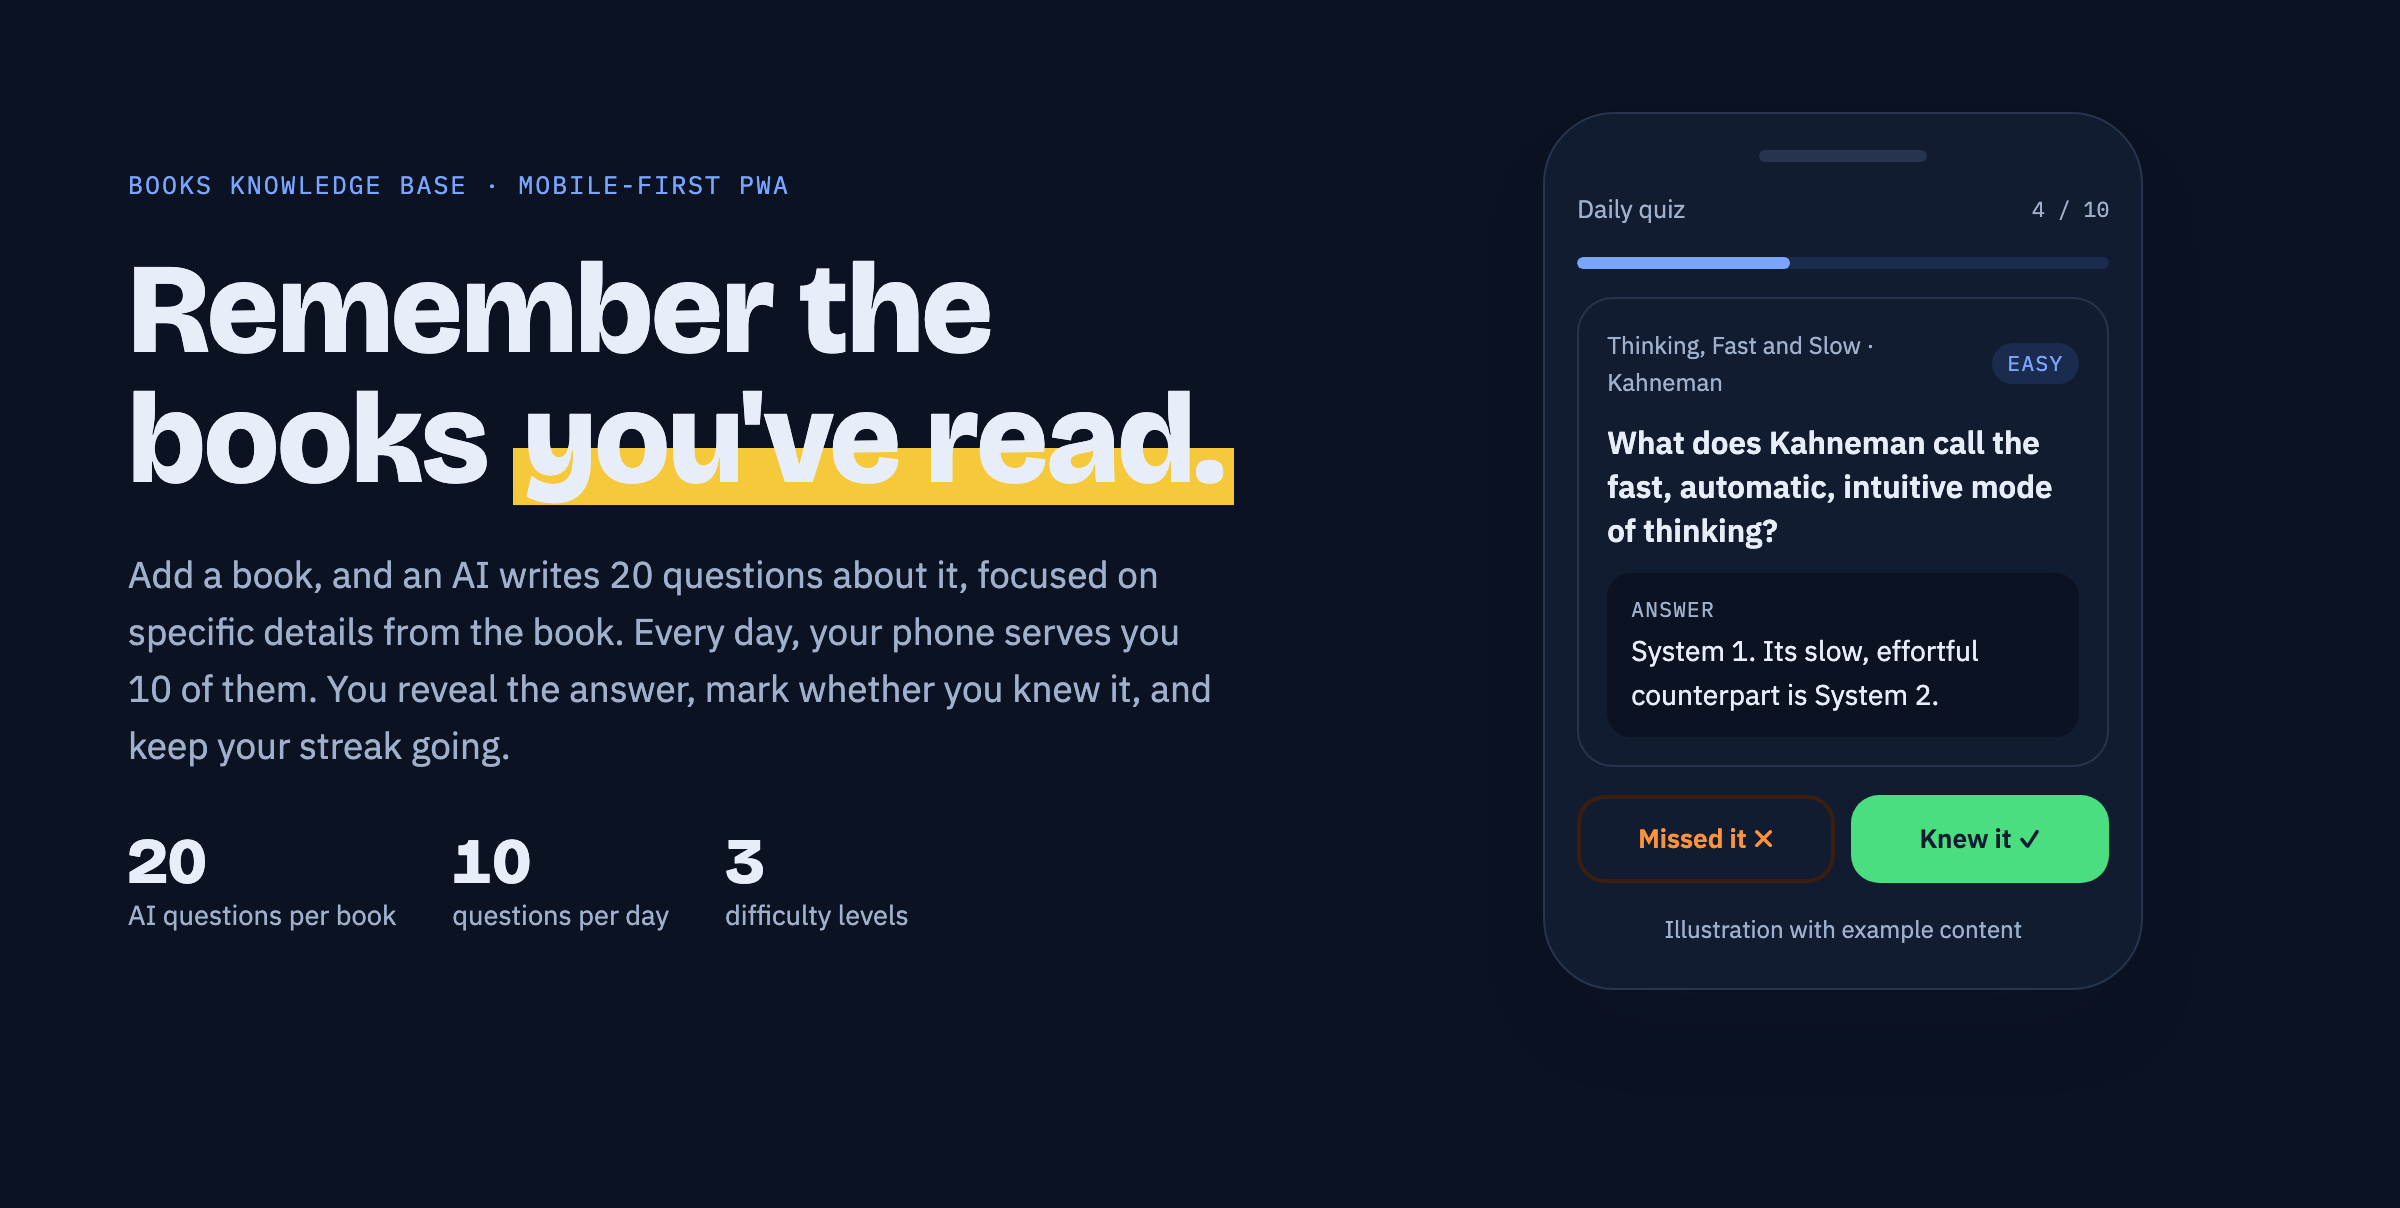
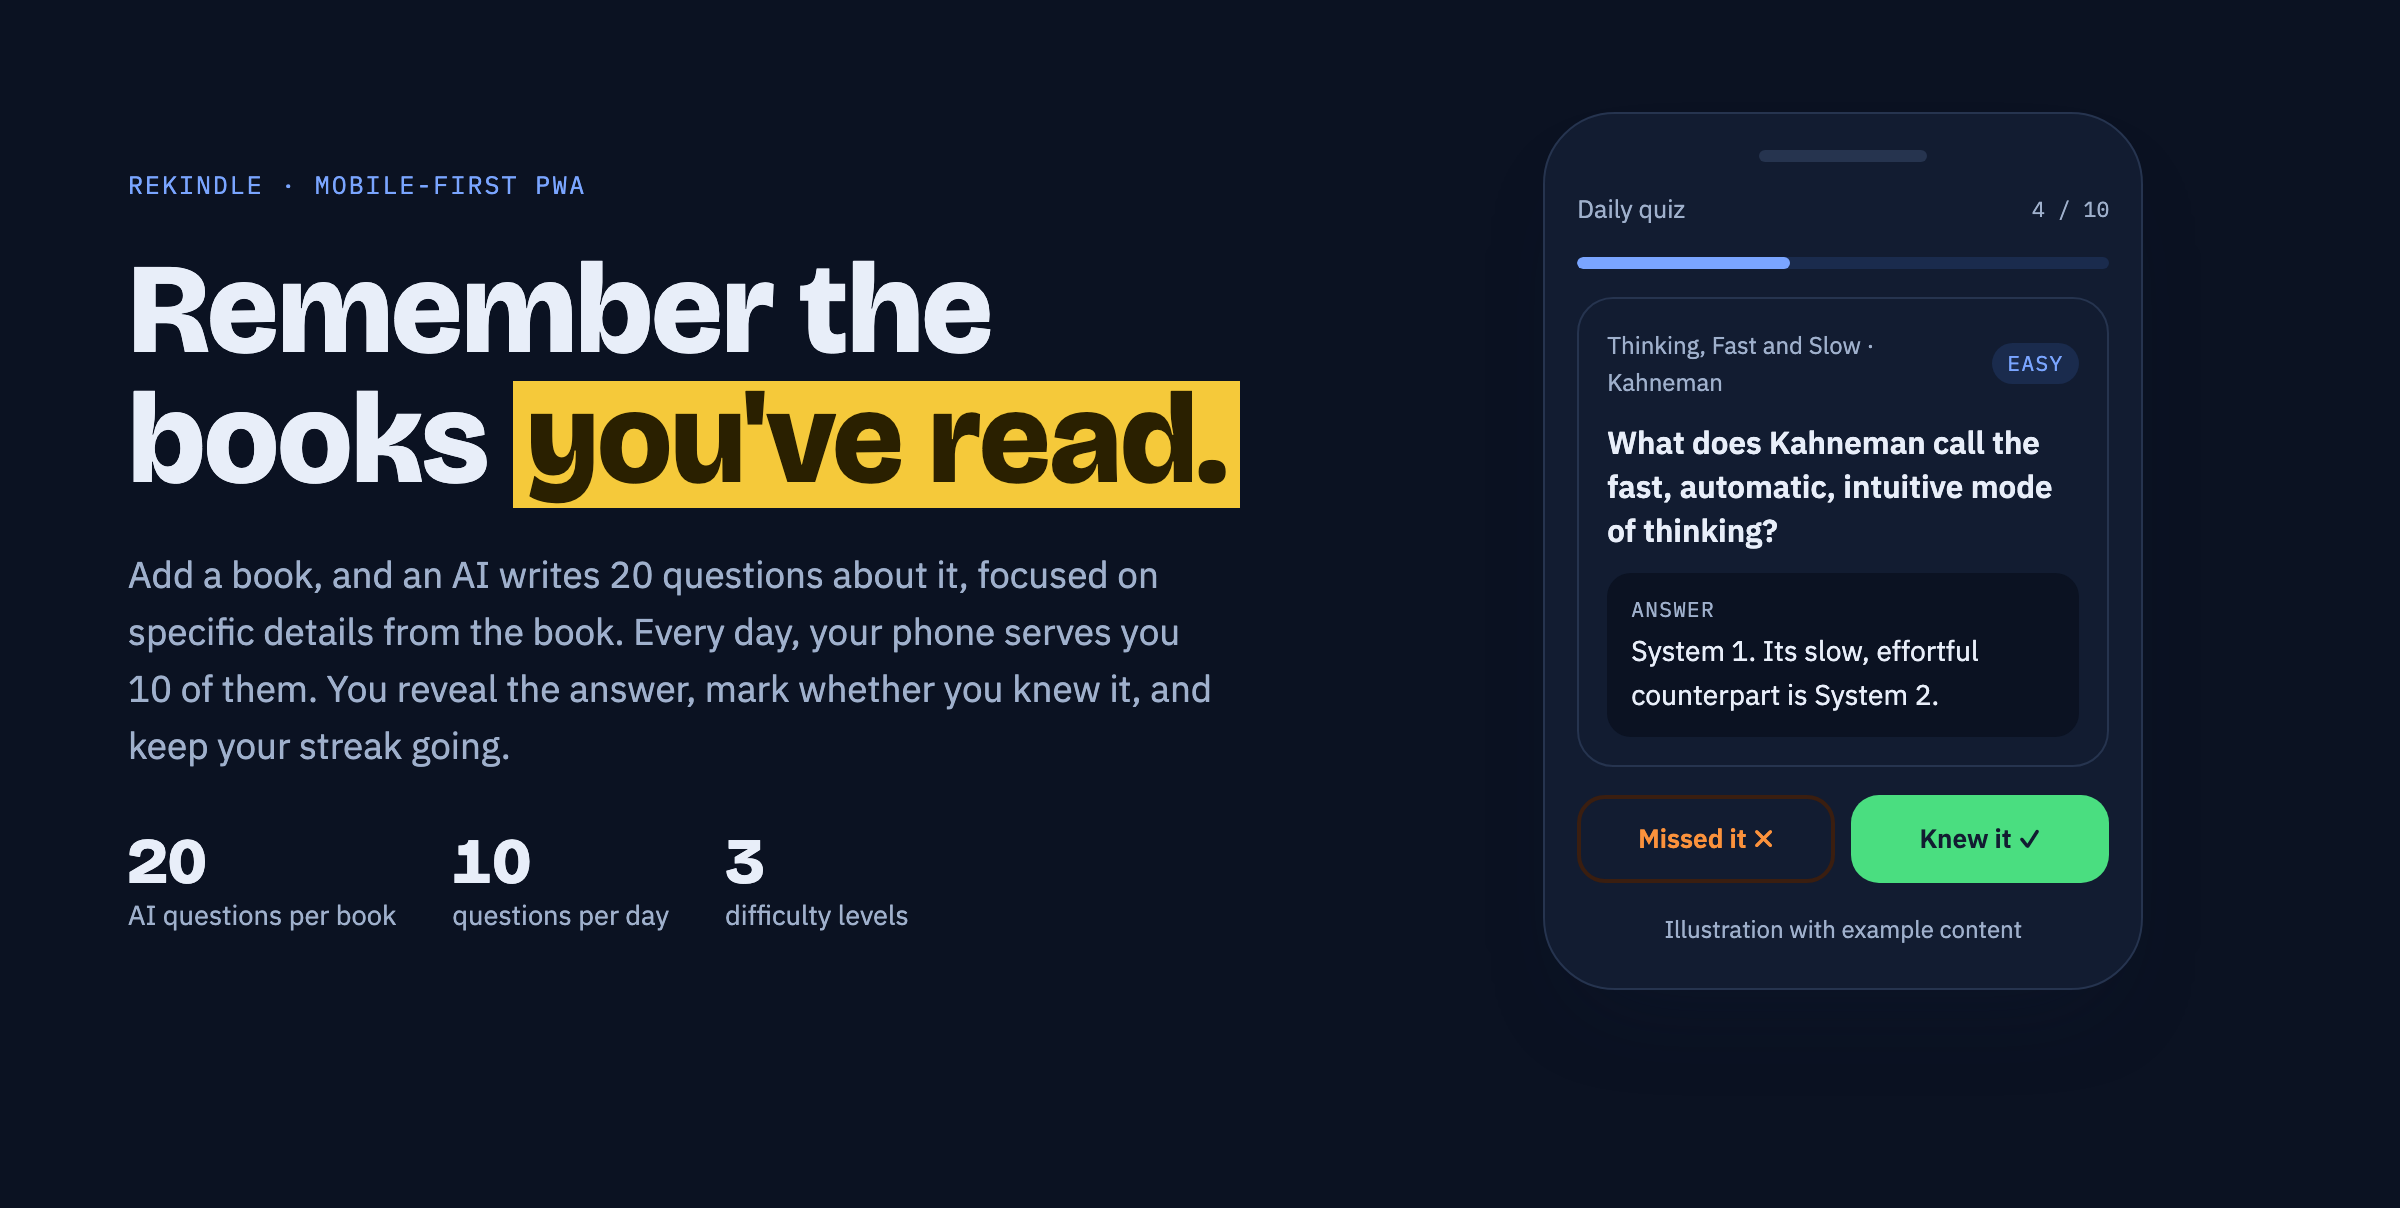
chore: rename project to Rekindle

Changed region(s): [[0.1875, 0.3063, 0.5312, 0.4288], [0.0625, 0.1225, 0.125, 0.1838], [0.1875, 0.1225, 0.25, 0.1838]]

diff --git a/app/layout.tsx b/app/layout.tsx
@@ -15,13 +15,13 @@ const geistMono = localFont({
 });
 
 export const metadata: Metadata = {
-  title: "Books Knowledge Base",
+  title: "Rekindle",
   description: "KI-gestütztes Buch-Wissens-Retention-System",
   manifest: "/manifest.json",
   appleWebApp: {
     capable: true,
     statusBarStyle: "default",
-    title: "Books KB",
+    title: "Rekindle",
   },
 };
 

diff --git a/README.md b/README.md
@@ -1,4 +1,4 @@
-<h1 align="center">Books Knowledge Base</h1>
+<h1 align="center">Rekindle</h1>
 
 <p align="center">
   <strong>Turn the books you read into knowledge you keep.</strong><br>
@@ -17,12 +17,12 @@
 
 <picture>
   <source media="(prefers-color-scheme: dark)" srcset="docs/images/hero-dark.png">
-  <img alt="Books Knowledge Base: add a book, get 20 AI-generated questions, answer 10 of them every day on your phone" src="docs/images/hero-light.png">
+  <img alt="Rekindle: add a book, get 20 AI-generated questions, answer 10 of them every day on your phone" src="docs/images/hero-light.png">
 </picture>
 
 ## Why
 
-You finish a book, and a few months later most of it is gone. Books Knowledge Base fixes that with **active recall**: instead of rereading notes, you answer questions about specific details from each book, a little every day.
+You finish a book, and a few months later most of it is gone. Rekindle fixes that with **active recall**: instead of rereading notes, you answer questions about specific details from each book, a little every day.
 
 The AI is instructed to avoid generic questions that anyone could answer without having read the book. Each question asks about something specific: a character's decision, an argument, an experiment, a name or a scene.
 
@@ -75,8 +75,8 @@ The AI is instructed to avoid generic questions that anyone could answer without
 
 ```bash
 # 1. Clone and install
-git clone https://github.com/jvmyer/Books_knowledge_Base.git
-cd Books_knowledge_Base
+git clone https://github.com/jvmyer/rekindle.git
+cd rekindle
 npm install
 
 # 2. Configure environment variables
